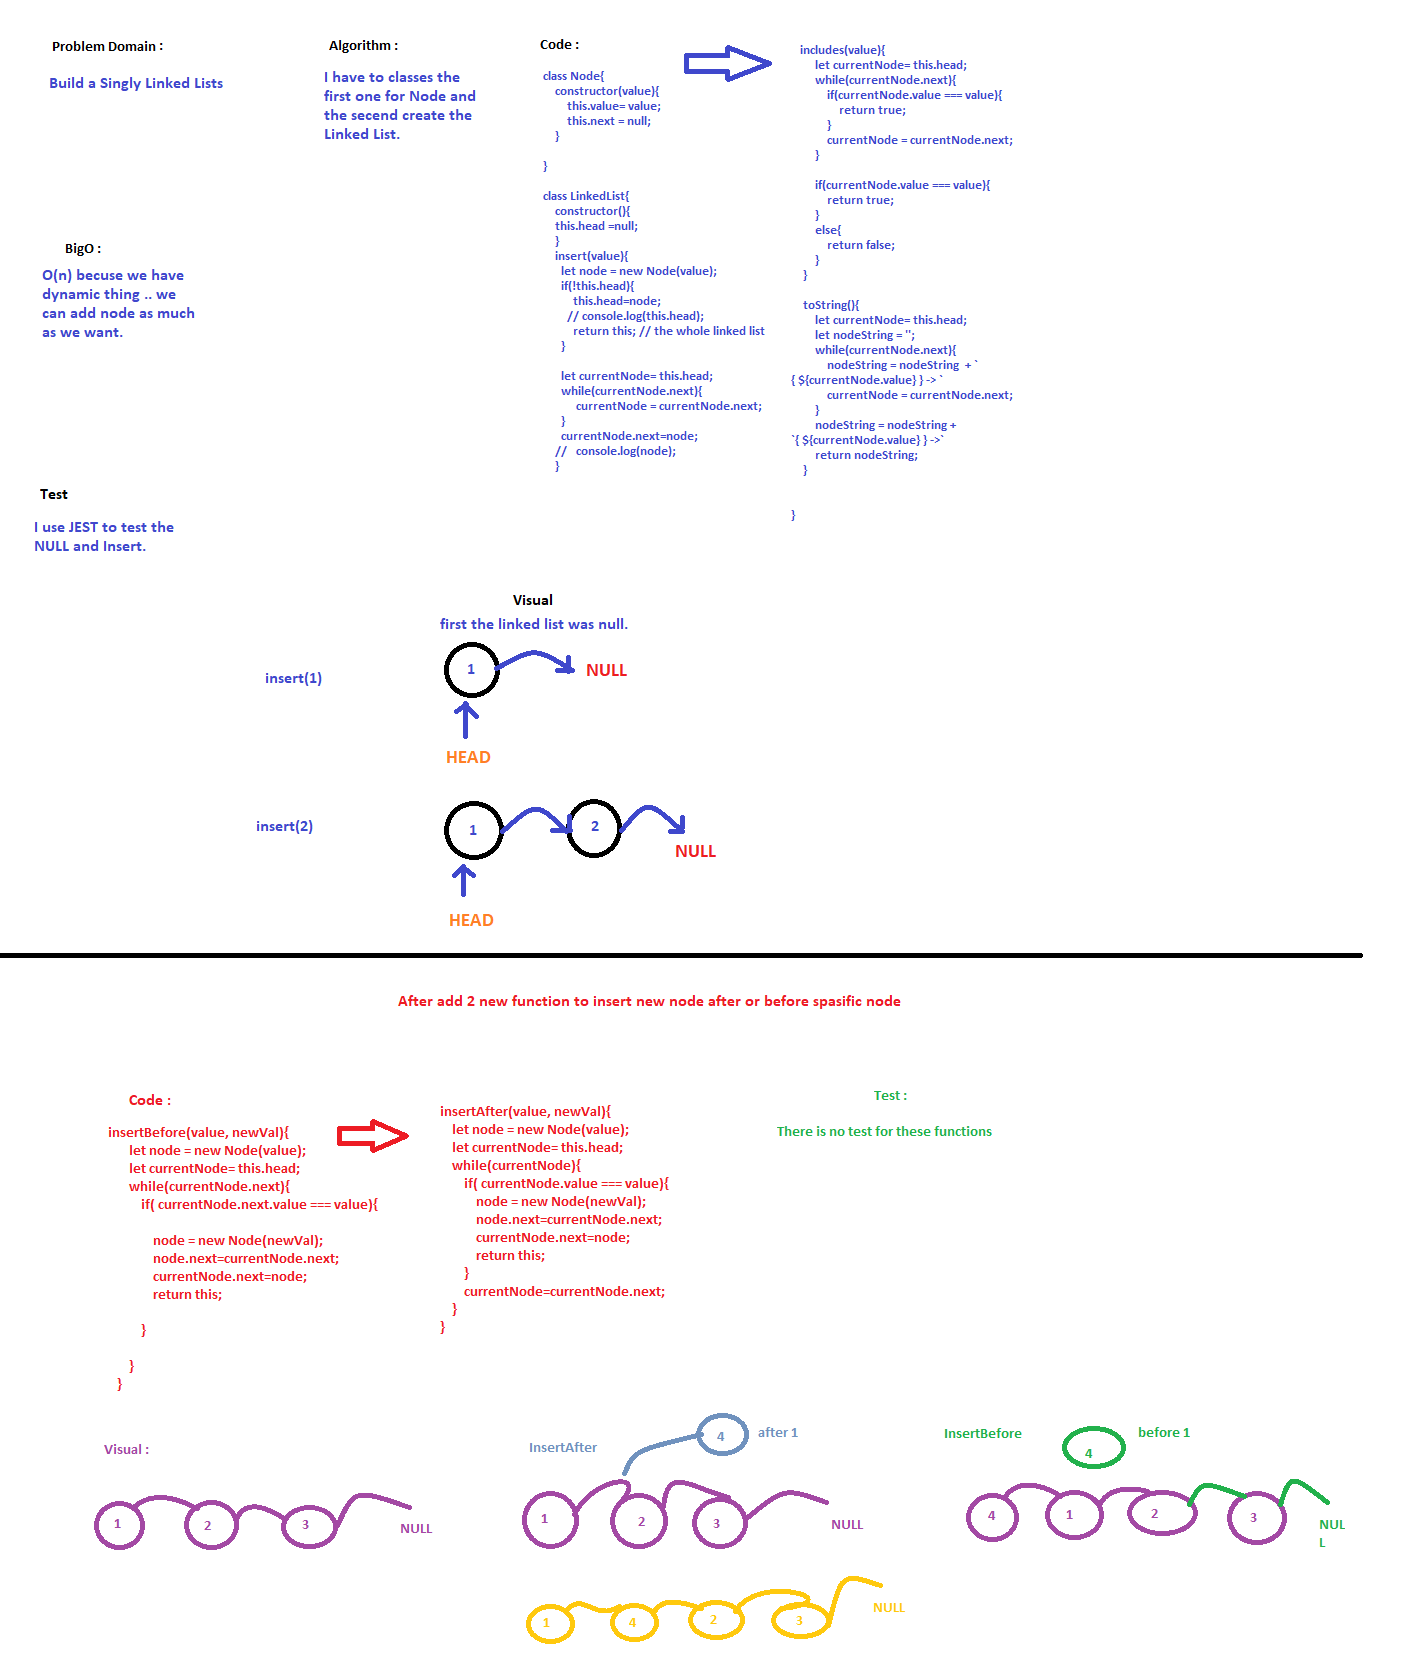
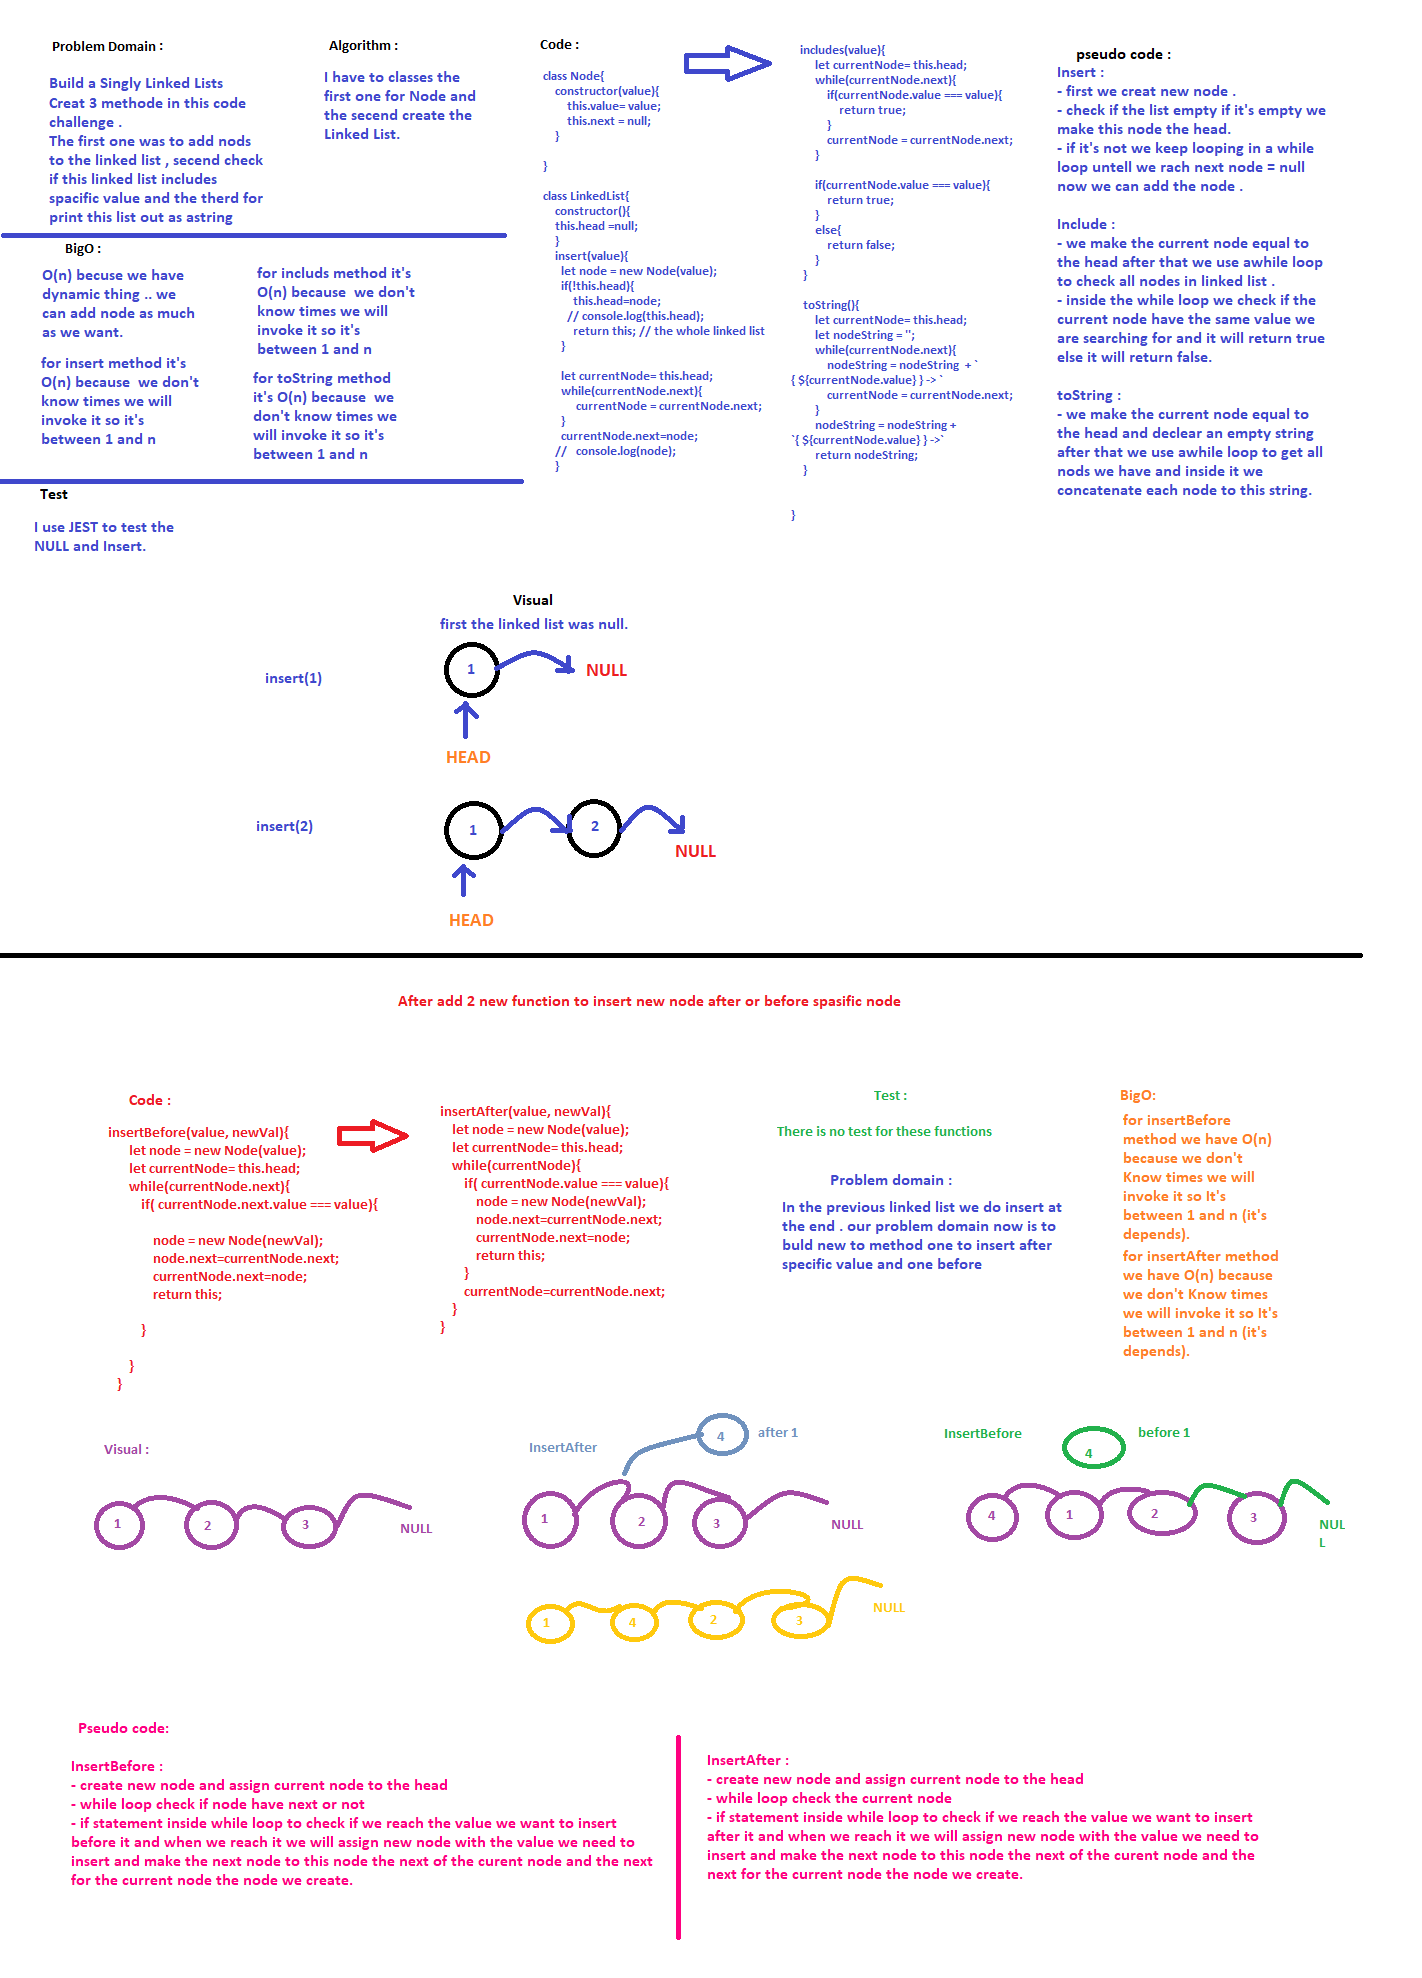
edit white bord

diff --git a/challenges/linkedList/linked-list.js b/challenges/linkedList/linked-list.js
@@ -88,15 +88,15 @@ class LinkedList{
 
 module.exports = LinkedList;
 
-// let node = new LinkedList();
-// console.log(node.insert(1));
-// node.insert(3);
-// node.insert(5);
-// console.log(node.includes(5));
-// console.log(node.toString())
-// console.log(node.insertBefore(3,7))
-// console.log(node.toString())
-// console.log(node.insertAfter(3,7))
-// console.log(node.toString())
-
-                   
+let node = new LinkedList();
+node.insert(1);
+node.insert(3);
+node.insert(5);
+console.log(node.includes(5));
+console.log(node.toString())
+console.log(node.insertBefore(3,14))
+console.log(node.toString())
+console.log(node.insertAfter(3,7))
+console.log(node.toString())
+node.insert(10);
+console.log(node.toString())
